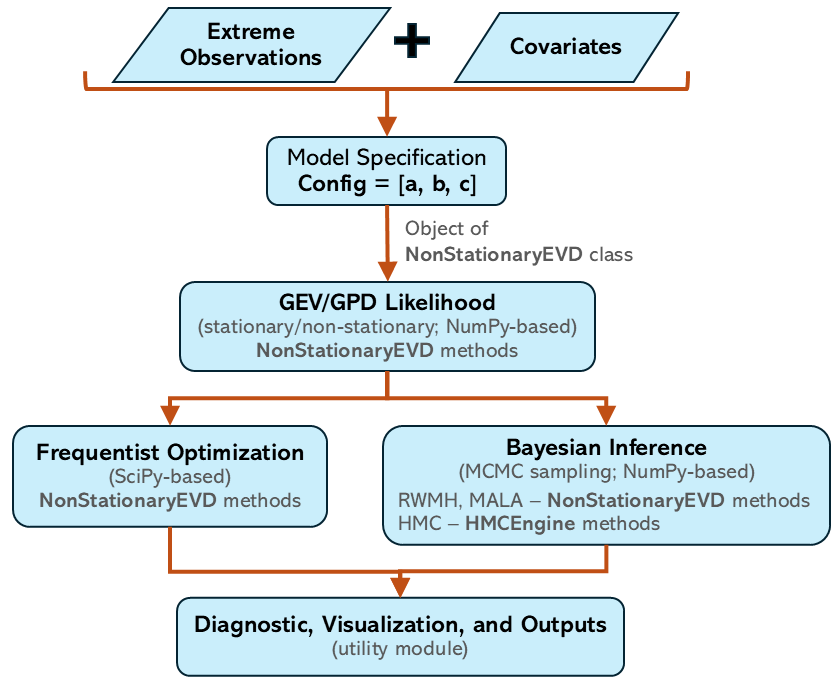
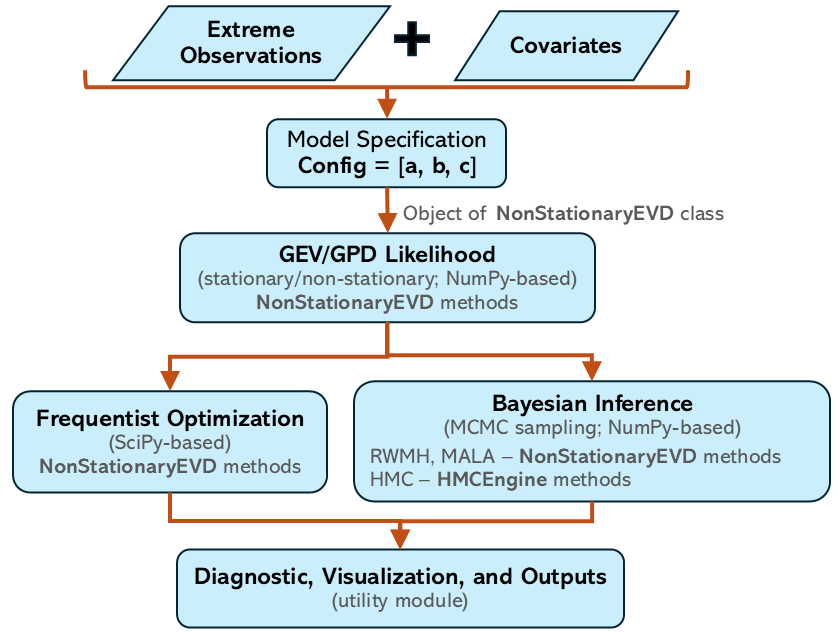
Fix: Please check if #18, #19 are addressed; Manuscript related comments from the reviewer @dosvk is partially addresses-work in progress....; Extended theoretical description in the documentation; added references

diff --git a/nsEVDx/hmc_engine.py b/nsEVDx/hmc_engine.py
@@ -332,12 +332,12 @@ class HMCEngine:
             d2 = (self.model._posterior_log_prob(p_fwd) -
                   2*log_p0 +
                   self.model._posterior_log_prob(p_bwd)) / eps**2
-            # d2 approximates second derivative of log-posterior; for a
+            # d2 approximates second derivative of log-posterior;
             # this is concave and negative
             curvature = -d2
             # M should scale with posterior precision under
             # K(p) = transpose(p) M^-1 p / 2
-            # see Neal 2011
+            # see Neal (2011)
             # Guard against non-positive or tiny curvature
             curvature = np.maximum(curvature, 1e-8)
             M_diag[i] = np.clip(curvature, 1e-4, 1e4)

diff --git a/Paper/paper.md b/Paper/paper.md
@@ -36,16 +36,18 @@ Traditional extreme value frequency analysis assumes that the statistical proper
 
 While several software tools support extreme value analysis, implementing and evaluating non-stationary EVD models often requires substantial statistical and programming expertise, particularly when Bayesian inference and advanced sampling algorithms are involved. `nsEVDx` provides an easy-to-use framework for fitting stationary and non-stationary Generalized Extreme Value (GEV) and Generalized Pareto (GPD) models. It makes advanced sampling methods accessible to users with varying levels of expertise in extreme value modeling while retaining the flexibility required for advanced applications.
 
-The target audience for `nsEVDx` includes hydrologists, climate scientists, infrastructure engineers, and financial risk analysts who require a reliable and flexible workflow for non-stationary extreme value modeling. By reducing the implementation effort  needed to implement both frequentist optimization and advanced Markov Chain Monte Carlo (MCMC) sampling algorithms, the software allows practicioners to focus on understanding changing risks and their implications for decision-making.
+The target audience for `nsEVDx` includes hydrologists, climate scientists, engineers, and risk analysts who require a reliable and flexible workflow for non-stationary extreme value modeling. By reducing the implementation effort  needed to implement both frequentist optimization and advanced Markov Chain Monte Carlo (MCMC) sampling algorithms, the software allows practicioners to focus on understanding changing risks and their implications for decision-making.
 
 
 # State of the Field
 
 Extreme value distributions (EVDs), particularly the GEV and GPD distributions, are widely used to quantify the frequency and magnitude of rare events in hydrology, climatology, engineering, and finance [@katz2002statistics;@kafle2026robustness;@mcneil2000estimation;@castillo1988extreme]. Increasing evidence of non-stationarity in environmental and socioeconomic systems has motivated the development of methods that allow EVD parameters to vary with time or external covariates.
 
-Several established software packages support extreme value analysis. In the R ecosystem, `ismev` [@heffernan_j_e_ismev_2003], `extRemes` [@gilleland_extremes_2025], `climextRemes` [@paciorek_climextremes_2016], and `NSGEV` [@irsn_nsgev_2024] provide tools for fitting stationary and non-stationary extreme value models. These packages provide important foundations for EVD-based analysis, although their capabilities differ in areas such as non-stationary modeling and Bayesian inference. Probabilistic programming frameworks, such as python-based `PyMC` [@oriol_abril-pla_pymc_2023] and `NumPyro` [@phan2019composable], and `C++` based Stan with interfaces like `PyStan` [@noauthor_pystan_2023] and `CmdStan` [@noauthor_cmdstan_2023], offer flexible tools for building custom statistical models, including extreme value models. However, these tools require users to explicitly formulate non-stationary likelihood functions for EVDs, prior structures, parameter constraints, and sampling configurations for each application. As a result, they may be too complex for domain specific practitioners like hydrologists, climate analysts, or risk analysts seeking easy-to-use tools. 
+Several established software packages support extreme value analysis. In the R ecosystem, `ismev` [@heffernan_j_e_ismev_2003], `extRemes` [@gilleland_extremes_2025], `climextRemes` [@paciorek_climextremes_2016], and `NSGEV` [@irsn_nsgev_2024] provide tools for fitting stationary and non-stationary extreme value models. These packages provide important foundations for EVD-based analysis, although their capabilities differ in areas such as non-stationary modeling and Bayesian inference. Probabilistic programming frameworks, such as python-based `PyMC` [@oriol_abril-pla_pymc_2023] and `NumPyro` [@phan2019composable], and `C++` based Stan with interfaces like `PyStan` [@noauthor_pystan_2023] and `CmdStan` [@noauthor_cmdstan_2023], offer flexible tools for building custom statistical models, including extreme value models. However, these tools require users to explicitly formulate non-stationary likelihood functions for EVDs, prior structures, parameter constraints, and sampling configurations for each application. As a result, they may be too complex for domain specific practitioners like hydrologists, climate analysts, or risk analysts seeking easy-to-use tools.
 
-These differences motivate a dedicated Python tool that combines flexibility with an accessible interface for stationary and non-stationary EVD modeling. In particular, `nsEVDx` supports user-defined covariates, parameter constraints, custom priors, and MCMC algorithms such as MALA [@roberts_exponential_1996] and HMC [@michael_betancourt_conceptual_2017] for fitting non-stationary GEV and GPD models. Compared with general-purpose probabilistic programming frameworks, `nsEVDx` provides predefined EVD likelihoods, parameterizations, and inference workflows, reducing the amount of model construction required for common extreme value analyses. 
+In the Python ecosystem, `pyextremes` is a well-established package for extreme value analysis, supporting block maxima and peaks-over-threshold extraction, return-level estimation, `SciPy` based frequentist parameter estimation and Bayesian inference through the affine-invariant ensemble sampler, `emcee`[@emcee]. However, `pyextremes` is primarily focused on stationary extreme value workflows. In contrast, nsEVDx provides a unified framework for both stationary and non-stationary EVDs, allowing arbitrary covariates to modulate the location, scale, and shape parameters through a configurable model structure. nsEVDx also expands Bayesian inference by including including Random-Walk Metropolis, MALA, and Hamiltonian Monte Carlo that are not included in `pyextremes`.  
+
+These differences motivate a dedicated Python tool that combines flexibility with an accessible interface for stationary and non-stationary EVD modeling. In particular, `nsEVDx` supports user-defined covariates, parameter constraints, custom priors, and MCMC algorithms such as MALA [@roberts_exponential_1996] and HMC [@michael_betancourt_conceptual_2017;neal2011mcmc] for fitting non-stationary GEV and GPD models. Compared with general-purpose probabilistic programming frameworks, `nsEVDx` provides predefined EVD likelihoods, parameterizations, and inference workflows, reducing the amount of model construction required for common extreme value analyses. 
 
 
 # Software Design
@@ -59,11 +61,14 @@ The concepts of non-stationarity and MCMC techniques used in `nsEVDx` are based 
 
 ![Configuration-vector framework used in `nsEVDx` for specifying stationary and non-stationary EVD models.](Fig2.png)
 
-Currently, location and shape parameters can be modeled using linear relationships, while the scale parameter is modeled using an exponential link function to ensure positivity. Polynomial relationships can be accommodated by transforming covariates before model fitting. Future releases aim to incorporate spline-based and mixed-population formulations.
+Currently, location and shape parameters can be modeled using linear relationships, while the scale parameter is modeled using an exponential link function to ensure positivity. Polynomial relationships can be accommodated by transforming covariates before model fitting. 
 
-Another key design decision is the implementation of Bayesian samplers directly in `NumPy`. This approach maximizes transparency, enables users to inspect and modify algorithmic details, and reduces dependencies. The package currently provides Random-Walk Metropolis-Hastings (RWMH), Metropolis-Adjusted Langevin Algorithm (MALA), and Hamiltonian Monte Carlo (HMC) samplers, allowing users to balance computational efficiency and inferential robustness according to their application. While RWMH and MALA are integrated within the `NonStationaryEVD` class, HMC is implemented through a dedicated `HMCEngine` component that handles the gradient computations required for Hamiltonian dynamics.
+Another key design decision is the implementation of Bayesian samplers directly in `NumPy`. This approach maximizes transparency, enables users to inspect and modify algorithmic details, and reduces dependencies. The package currently provides Random-Walk Metropolis-Hastings (RWMH), Metropolis-Adjusted Langevin Algorithm (MALA), and Hamiltonian Monte Carlo (HMC) samplers, allowing users to balance computational efficiency and inferential robustness according to their application. While RWMH and MALA are integrated within the `NonStationaryEVD` class, HMC is implemented through a dedicated `HMCEngine` component that handles Hamiltonian dynamics.
 
 To support model evaluation and reproducibility, `nsEVDx` includes diagnostic tools for trace plots, posterior summaries, acceptance rates, and Gelman-Rubin ($\hat{R}$) convergence metrics. It also provides model selection options, including DIC, AIC, BIC, and likelihood-ratio tests, enabling complete workflows within a single environment.
+
+The repository also includes validation.py, a reproducible simulation benchmark designed to evaluate the ability of competing methods to recover known GEV and GPD parameters. The validation results indicate that nsEVDx achieves parameter estimation accuracy comparable to that of SciPy and pyextremes for stationary models when using both maximum likelihood estimation (MLE) and the method of L-moments (LM) (Figure 3a-b). Across all methods, the GPD scale parameter was generally estimated with lower accuracy and greater variability than the corresponding GEV scale parameter. 
+
 
 The package is intentionally lightweight, relying primarily on `NumPy` and `SciPy` for computation and `Matplotlib` and `Seaborn` for visualization. This minimal dependency footprint improves portability and simplifies installation while preserving extensibility for future methodological developments.
 
@@ -72,7 +77,7 @@ The package is intentionally lightweight, relying primarily on `NumPy` and `SciP
 
 `nsEVDx` is developed to improve accessibility of advanced extreme value modeling methods for researchers working in Python environments. The software lowers the barrier to applying advanced Bayesian methods, including MALA and HMC sampling, by providing predefined extreme value models and inference workflows that accommodate users with different levels of statistical and programming expertise.
 
-The package has already been applied in ongoing hydroclimatic research focused on trend detection and characterization of extreme precipitation[@kafle2026raingauge;@kafle2025detecting], and supports broader applications in climate science, water resources engineering, infrastructure design, and financial risk assessment. Since its public release, nsEVDx has received more than 3,200 downloads during its first year, providing evidence of early adoption by the research community.
+The package has already been applied in ongoing hydroclimatic research focused on trend detection and characterization of extreme precipitation[@kafle2026raingauge;@kafle2025detecting], and supports broader applications in climate science, water resources engineering, infrastructure design, and financial risk assessment. Since its public release, nsEVDx has received more than 3,200 downloads during its first year, providing evidence of research community interest.
 
 The software is openly developed, documented, tested, and distributed through both `GitHub` and `PyPI`, supporting long-term reuse and community contributions. Its combination of accessible model specification, flexible non-stationary formulations, and built-in Bayesian inference fills an important gap between specialized extreme-value software and general-purpose probabilistic programming environments.
 
@@ -82,10 +87,10 @@ Installation instructions, tutorials, API documentation, and executable examples
 
 # AI Usage Disclosure
 
-AI tools were used during the programming and development of this library, as well as for drafting, editing, and improving the clarity of the manuscript. All underlying scientific content, core software architecture, analyses, and final interpretations were conceived, verified, and approved entirely by the authors.
+AI tools were used to assist the development of this library and in drafting the manuscript. All underlying scientific content, software architecture, analyses, and final interpretations were conceived, verified, and approved by the authors.
 
 # Acknowledgements
 
-We are deeply grateful to the JOSS Editor and reviewers for their thorough and constructive review, which substantially strengthened both the nsEVDx package and its documentation. We also thank the OpenSciPy editors and reviewers for their valuable feedback and contributions to improving the package. We gratefully acknowledge Vincent Gao for identifying and fixing a software bug. Finally, we thank my wife, Koshika Timsina, for her steadfast support and encouragement throughout this project.
+We thank the JOSS Editor and reviewers for their thorough and constructive feedback, which significantly improved both nsEVDx and its documentation. We also acknowledge the pyOpenSci editors and reviewers for their valuable suggestions, Vincent Gao for identifying and fixing a software bug, and my wife, Koshika Timsina, for her unwavering support and encouragement throughout this project.
 
 # References

diff --git a/docs/source/theory.rst b/docs/source/theory.rst
@@ -18,6 +18,48 @@ with location :math:`\mu`, scale :math:`\sigma > 0`, and shape :math:`\xi` is:
 
    F(x; \mu, \sigma, 0) = \exp\left\{-\exp\left[-\left(\frac{x - \mu}{\sigma}\right)\right]\right\} \quad \text{for } \xi = 0
 
+The probability density function (PDF) of GEV is given by:
+
+.. math::
+
+   f(x; \mu, \sigma, \xi)
+   =
+   \frac{1}{\sigma}
+   \left[
+      1 - \xi\left(\frac{x-\mu}{\sigma}\right)
+   \right]^{1/\xi - 1}
+   \exp\left\{
+      -
+      \left[
+         1 - \xi\left(\frac{x-\mu}{\sigma}\right)
+      \right]^{1/\xi}
+   \right\},
+   \qquad \xi \neq 0
+
+with support
+
+.. math::
+
+   1 - \xi\left(\frac{x-\mu}{\sigma}\right) > 0.
+
+For :math:`\xi = 0` (Gumbel case),
+
+.. math::
+
+   f(x; \mu, \sigma, 0)
+   =
+   \frac{1}{\sigma}
+   \exp\left[
+      -
+      \left(\frac{x-\mu}{\sigma}\right)
+   \right]
+   \exp\left\{
+      -
+      \exp\left[
+         -
+         \left(\frac{x-\mu}{\sigma}\right)
+      \right]
+   \right\}.
 
 Generalized Pareto Distribution
 -------------------------------
@@ -34,6 +76,35 @@ The CDF of exceedances :math:`Y = X - \mu > 0` over threshold :math:`\mu` follow
 
    F(y; \mu, \sigma, 0) = 1 - \exp\left(-\frac{y - \mu}{\sigma}\right) \quad \text{for } \xi = 0
 
+The PDF of GPD is given by:
+
+.. math::
+
+   f(y; \mu, \sigma, \xi)
+   =
+   \frac{1}{\sigma}
+   \left(
+      1 + \xi\frac{y-\mu}{\sigma}
+   \right)^{-1/\xi - 1},
+   \qquad \xi \neq 0
+
+with support
+
+.. math::
+
+   1 + \xi\frac{y-\mu}{\sigma} > 0.
+
+For :math:`\xi = 0` (Exponential case),
+
+.. math::
+
+   f(y; \mu, \sigma, 0)
+   =
+   \frac{1}{\sigma}
+   \exp\left(
+      -
+      \frac{y-\mu}{\sigma}
+   \right).
 
 Non-stationary Framework
 ------------------------
@@ -76,3 +147,114 @@ Each element in the configuration specifies the number of covariates for the **l
 * Values **> 0** indicate non-stationary modeling using the corresponding number of covariates.
 
 This framework allows flexible, parsimonious modeling of non-stationary extreme value distributions, including covariates only where supported by data.
+
+
+Log-Likelihood
+--------------
+
+The primary computational core in ``nsEVDx`` is the evaluation of the generalized
+log-likelihood  suitable for both stationary and non-stationary three-parameter
+extreme value distributions (EVDs).
+The log-likelihood form the foundation of parameter estimation, frequentist inference,
+and Bayesian inference for both stationary and non-stationary EVDs.
+
+For a sample of observations
+:math:`\{x_1, x_2, \ldots, x_n\}`, the log-likelihood is defined as
+
+.. math::
+
+   \ell(\theta)
+   =
+   \sum_{i=1}^{n}
+   \log f(x_i;\theta),
+
+where :math:`f(\cdot)` denotes the PDF of the selected EVD and
+:math:`\theta` represents the full parameter vector.
+
+For non-stationary models, :math:`\theta` contains all regression
+coefficients associated with the location, scale, and shape parameters,
+
+.. math::
+
+   \mu(t), \qquad \sigma(t), \qquad \xi(t),
+
+which may vary as functions of user-specified covariates.
+
+
+
+Analytical Gradient
+-------------------
+
+To improve computational efficiency and numerical stability,
+``nsEVDx`` provides analytical gradients of the log-likelihood with
+respect to all model parameters whenever possible.
+
+The gradient vector is defined as
+
+.. math::
+
+   \nabla_{\theta}\ell(\theta)
+   =
+   \left(
+   \frac{\partial \ell}{\partial \theta_1},
+   \frac{\partial \ell}{\partial \theta_2},
+   \ldots,
+   \frac{\partial \ell}{\partial \theta_p}
+   \right)^T,
+
+where :math:`p` is the number of model parameters.
+
+Analytical gradients offer several advantages:
+
+* Faster optimization and sampling.
+* Improved numerical accuracy.
+* Reduced sensitivity to finite-difference step sizes.
+* Better scaling for high-dimensional non-stationary models.
+
+Numerical Gradient Fallback
+---------------------------
+
+As a robustness feature, ``nsEVDx`` also provides numerical
+finite-difference approximations of the gradient. This fallback option
+can be used when analytical derivatives are unavailable or for validating
+gradient implementations.
+
+For a parameter :math:`\theta_j`, the central-difference approximation is
+
+.. math::
+
+   \frac{\partial \ell}{\partial \theta_j}
+   \approx
+   \frac{
+   \ell(\theta_j + h)
+   -
+   \ell(\theta_j - h)
+   }{2h},
+
+where :math:`h` is a small perturbation.
+
+Although numerical gradients are generally slower and less accurate than
+their analytical counterparts, they provide a robust fallback mechanism
+and facilitate validation of derivative implementations.
+
+MCMC Applications
+----------------------
+
+Both the log-likelihood and its gradient are designed for direct use in
+Markov Chain Monte Carlo (MCMC) algorithms and related Bayesian inference
+methods.
+
+Examples include:
+
+* Random-Walk Metropolis-Hastings (RWH).
+* Metropolis-Adjusted Langevin Algorithms (MALA).
+* Hamiltonian Monte Carlo (HMC).
+
+
+When analytical gradients are available they are used by default for
+maximum computational efficiency. Numerical gradients remain available
+as a fallback option, ensuring compatibility across all stationary and
+non-stationary GEV and GPD model configurations.
+``
+
+
